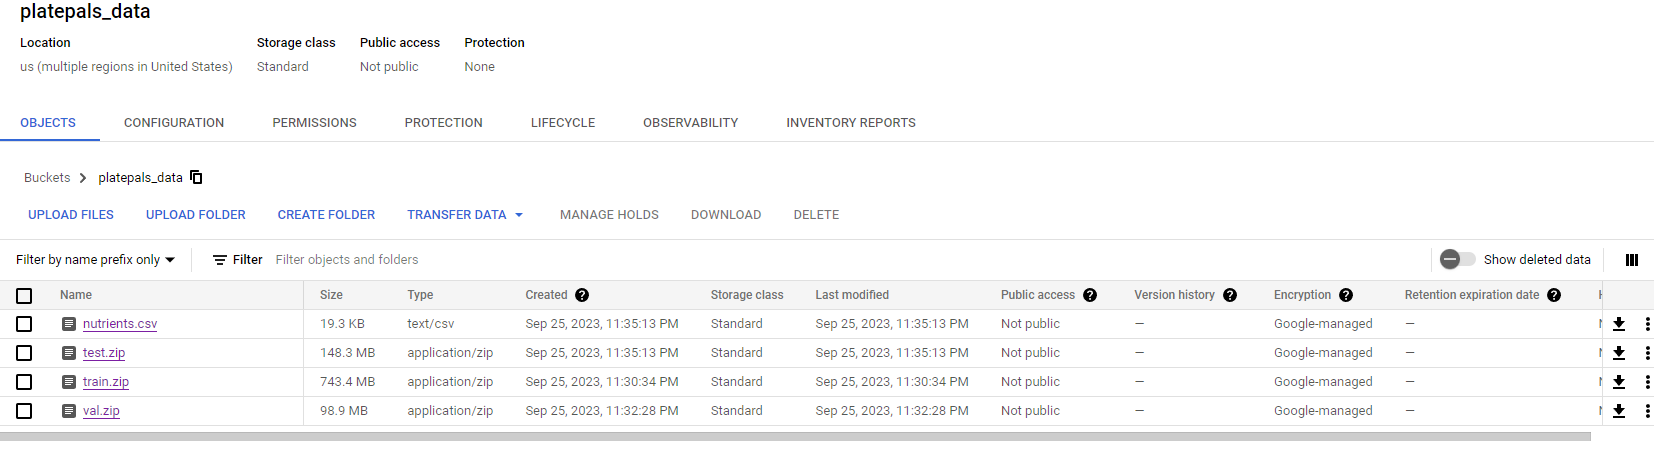
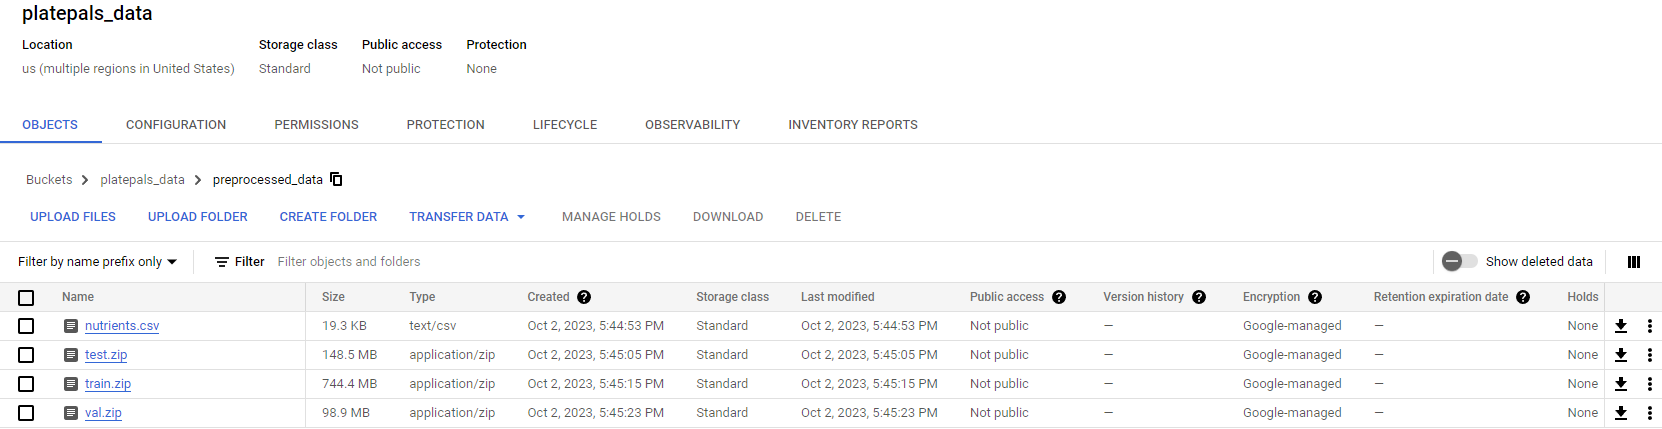
updated README

diff --git a/src/preprocessing/preprocess.py b/src/preprocessing/preprocess.py
@@ -16,7 +16,7 @@ GOOGLE_APPLICATION_CREDENTIALS = os.environ.get('GOOGLE_APPLICATION_CREDENTIALS'
 # Constants for nutrients dataset
 NUTRIENTS_URL = "https://raw.githubusercontent.com/prasertcbs/basic-dataset/master/nutrients.csv"
 LOCAL_PATH, GCS_OBJECT_NAME = "nutrients.csv", "nutrients.csv"
-DATA_VERSION = "version2" # UPDATE THIS IF NEEDED
+DATA_VERSION = "preprocessed_data" # CHANGE THIS
 
 
 def data_augmentation_layer():

diff --git a/README.md b/README.md
@@ -1,24 +1,28 @@
 AC215 - Milestone 3 (PlatePals)
 ==============================
-**Team Members**
+### Team Members ###
 
 - Amelia Li
 - Rebecca Qiu
 - Peter Wu
 
-**Group Name**
+### Group Name ###
 
 PlatePals
 
-**Project**
+### Project Description ###
 
 The goal of this project is to develop a machine learning application that accurately identifies the types of food present in a user-uploaded image. Based on the foods identified, the application will provide the user with relevant nutritional information and personalized dietary recommendations. This project will involve key phases of data preprocessing, model development, and application interface development, leveraging TensorFlow's Food-101 dataset.
 
 We'll predominantly employ TensorFlow's Food-101 dataset, featuring 101,000 annotated food images across 101 categories. Additionally, we will correlate the identified food items with nutritional metrics obtained from Kaggle's Nutrition datasets and a database called Nutritional Facts for Most Common Foods, which together offer around 9,000 nutritional records. Our dataset is securely hosted in a private Google Cloud Bucket.
 
-### Milestone 3 ###
+**Recap of Milestone 2**
 
-In Milestone 3, we provide a container to read our training, validation, and testing dataset of the Food-101 dataset, featuring 101,000 annotated food images across 101 categories, from GCS bucket, fit a CNN model to it called EfficientNet through a custom job sent to GCP Vertex AI and model dashboard set up through Weights and Biases.
+In milestone 2, we provide a container that pulls data from the TensorFlow [Food-101 dataset](https://www.tensorflow.org/datasets/catalog/food101), performs train-validation-test split of 75%, 10%, and 15% respsectively, and uploads the files onto our remote GCS bucket as zip files. 
+
+**Milestone 3**
+
+In this milestone, we provide a container to read our training, validation, and testing dataset from our remote GCS bucket, fit a CNN model to called EfficientNetV2B0 through a custom job sent to [GCP Vertex AI](https://console.cloud.google.com/vertex-ai/training/custom-jobs) and model dashboard set up through [Weights and Biases](https://wandb.ai/).
 
 Project Organization
 ------------
@@ -41,7 +45,6 @@ Project Organization
                 ├── package-trainer.sh
                 ├── Pipfile
                 ├── Pipfile.lock
-                ├── trainer.tar.gz
                 └── package
                     ├── PKG-INFO
                     ├── setup.cfg
@@ -74,17 +77,19 @@ Preprocess container (Milestone 2)
 Model Training a Multi-Class CNN Model (Milestone 3)
 ------------
 - This container reads 4.65GB of the [Food-101 dataset](https://www.tensorflow.org/datasets/catalog/food101) from a GCS Bucket that we populated in the `Preprocess container` section.
-- It fits and tests EfficientNet, a CNN model, using the train-val-test split we created in in the `Preprocess container` section to our problem of classifying food images into the 101 labels. 
+- It fits and tests EfficientNetV2B0, a CNN model, using the train-val-test split we created in in the `Preprocess container` section to our problem of classifying food images into the 101 labels. 
 - The code to perform the the tasks is written in `task.py`.
 - The code is sent to GCP Vertex AI to run.
 - Our model is connected to Weights and Biases, so we are able to view the model's performance and metrics at every epoch in its training and testing.
-- Required inputs: GCS Project Name and GCS Bucket Name.
+- Required inputs: GCS Project Name, GCS Bucket Name (data), GCS Bucket Name (model code), and WandB key.
 - Output: Model output in Weights and Biases and Vertex AI
 
 (1) `src/model-training/package/trainer/task.py`: This file reads our food data, a 4.65GB dataset, from the GCS bucket, fits a CNN model for multi-class classification, and then evaluates in on a test dataset. Image dimensions are resized to 128x128 pixels.
 
 Running our code
 ------------
+### Milestone 2 (preprocessing container) ###
+
 **Setup GCP Service Account**
 1. Create a secrets folder that is on the same level as the project folder.
 2. Head to [GCP Console](https://console.cloud.google.com/home/dashboard).
@@ -95,64 +100,140 @@ Running our code
 7. Click on "ADD KEY" > "Create new key" with "Key type" as JSON.
 8. Copy this JSON file into the secrets folder created in step 1 and rename it as "data-service-account.json".
 
-**Setup GCS Bucket**
+**Setup GCS Bucket (data bucket)**
 1. Head to [GCP Console](https://console.cloud.google.com/home/dashboard).
-2. Search for "Buckets" from the top search box OR go to: "Cloud Storage" > "Buckets" and create a new bucket with an appropriate bucket name e.g. "platepals-test".
-3. Click done. This will create a new GCS Bucket.
+2. Search for "Buckets" from the top search box OR go to: "Cloud Storage" > "Buckets" and create a new bucket with an appropriate bucket name e.g. "platepals-data".
+3. Click done. This will create a new GCS Bucket (GCS_BUCKET_NAME) for the container to upload your preprocessed data.
 
-**Set GCP Credentials (if running Milestone 2)**
-1. Head to src/preprocessing/docker-shell.sh.
+**Set GCP Credentials**
+1. Head to `src/preprocessing/docker-shell.sh`.
 2. Replace `GCS_BUCKET_NAME` and `GCP_PROJECT` with corresponding GCS Bucket Name that you have chosen above and GCP Project Name.
-3. Repeat step 2 for src/preprocessing/docker-shell.bat.
+3. (If you have a M1 Mac) Use the line that contains `--platform=linux/arm64/v8` to build your docker image.
 
-**Set GCP Credentials (if running Milestone 3)**
-1. Head to `src/model-training/docker-shell.sh`.
-2. Replace `GCS_BUCKET_NAME` and `GCP_PROJECT` with corresponding GCS Bucket Name that you have chosen above and GCP Project Name.
-
-**Execute Dockerfile (if running Milestone 2)**
-1. Make sure the Docker application is operational.
+**Execute Dockerfile**
+1. Make sure the Doker application is operational.
 2. **NOTE: EXECUTION MAY TAKE 2-3 HOURS DEPENDING ON NETWORK SPEED.** Navigate to src/preprocessing and execute `sh docker-shell.sh`.
-3. Upon completion, your GCS Bucket should display the processed data as shown under the default folder name "version1".
+3. Upon completion, your GCS Bucket should display the processed data as shown under the default folder name "preprocessed_data" (you can change this in preprocess.py).
 ![bucket-data](assets/bucket-data.png)
 
-**Execute Dockerfile (if running Milestone 3)**
+### Milestone 3 (model-training container) ###
+
+This milestone assumes that you have done the steps mentioned for milestone 2 (preprocessing container).
+
+**Setup GCS Bucket (trainer bucket)**
+1. Head to [GCP Console](https://console.cloud.google.com/home/dashboard).
+2. Search for "Buckets" from the top search box OR go to: "Cloud Storage" > "Buckets" and create a new bucket with an appropriate bucket name e.g. "platepals-trainer".
+3. Click done. This will create a new GCS Bucket (GCS_BUCKET_URI) for the container to uplaod the code used to train the model.
+
+**Set GCP Credentials**
+1. Head to `src/model-training/docker-shell.sh`.
+2. Replace `GCS_BUCKET_URI` and `GCP_PROJECT` with corresponding GCS Bucket Name that you have chosen above and GCP Project Name.
+3. (If you have a M1 Mac) Use the line that contains `--platform=linux/arm64/v8` to build your docker image.
+3. (If you modified your default folder name for your data) Head to `src/model-training/package/trainer/task.py`.
+4. Change the string assigned to `data_version`.
+
+**Set Environment Variables**
+1. Login to [Weights and Biases](https://wandb.ai/).
+2. Go to [user settings](https://wandb.ai/settings).
+3. Scroll down to the `API Keys` section.
+![wandb-api-key](assets/wandb-api-key.png)
+4. Copy the key and set an environment variable using your terminal: `export WANDB_KEY=...`
+5. Set another environment variable for your GCS data bucket (that contains your data): `export GCS_BUCKET_NAME=...`
+
+**If you have access to Vertex AI GPU**
+1. Head to `src/model-training/cli.sh`.
+2. Uncomment the code under "Run training with GPU" and comment out the code under "Run training with no GPU".
+
+**Execute Dockerfile**
 1. Make sure the Docker application is operational.
-2. Navigate to `src/model-training/package/trainer` and execute `sh docker-shell.sh`.
-3. Inside Docker, run `sh package-trainer.sh`.
-4. Still inside Docker, run `sh cli.sh`.
+2. Navigate to `src/model-training` and execute `sh docker-shell.sh`.
+3. Once you are in the docker container, run `sh package-trainer.sh`.
+4. You should be able to see that a `tar.gz` file has been uploaded to your GCS trainer bucket.
+![bucket-trainer](assets/bucket-trainer.png)
+4. **NOTE: EXECUTION MAY TAKE 15 MINUTES TO 1 AN HOUR DEPENDING ON GPU/CPU.** Still inside the docker container, run `sh cli.sh`.
 3. Upon completion, your custom job should populate in GCP Vertex AI and model dashboard should show up in Weights and Biases.
+![vertex-ai-finished-jobs](assets/vertex-ai-finished-jobs.png)
 
 Results
 ------------
 **Experiment Tracking**
 
-Below you can see the output from our Weights & Biases page. We used this tool to track several iterations of our model training when it trained our EfficientNet. It was tracked using the `wandb` library we included inside of our `task.py` script.
+Below you can see the output from our Weights & Biases page. We used this tool to track several iterations of our model training when it trained our EfficientNet. It was tracked using the `wandb` library we included inside of our `task.py` script. Below is a screenshot of one iteration that we performed with EfficientNetV2B0 for 3 epochs.
 
 ![wnb](assets/wnb.jpg)
 
 **Serverless Training**
 
 Inside our training container, we sent our training job to GCP Vertex AI so it is trained on instances in the cloud, which was how we connected to the Weights & Biases in the previous image above. In the image below, you can see several runs of our model. We had a successful completion of the custom job.
-
-![vertex-ai-complete](assets/vertex-ai-complete.jpg)
+![vertex-ai-finished-jobs](assets/vertex-ai-finished-jobs.png)
 
 DVC Setup
 ------------
 This step is entirely optional.
-1. Make sure dvc[gs] is installed by running `pip install dvc[gs]`.
-2. Initialize git at the root of the file by running `git init`.
-3. Initialize dvc at the root of the file by running `dvc init`.
-2. Ensure that the gcloud CLI is installed by running a gcloud command e.g. `gcloud projects list`. [Instructions](https://cloud.google.com/sdk/docs/install) for installation can be found here.
-3. Run the command `gcloud auth application-default login` to be authenticated with the gcloud CLI.
-4. Run the command `dvc import-url gs://{GCS_BUCKET_NAME}/version1`.
-5. Run the command `git add .gitignore version1.dvc`
-6. Run `git commit -m "added raw data"`.
-9. You have now committed the latest version of the data using dvc.
+1. Create a VM on Google Cloud Platform
+2. Install Docker on the VM
+```
+# Add Docker's official GPG key:
+sudo apt-get update
+sudo apt-get install ca-certificates curl gnupg
+sudo install -m 0755 -d /etc/apt/keyrings
+curl -fsSL https://download.docker.com/linux/debian/gpg | sudo gpg --dearmor -o /etc/apt/keyrings/docker.gpg
+sudo chmod a+r /etc/apt/keyrings/docker.gpg
+
+# Add the repository to Apt sources:
+echo \
+  "deb [arch="$(dpkg --print-architecture)" signed-by=/etc/apt/keyrings/docker.gpg] https://download.docker.com/linux/debian \
+  "$(. /etc/os-release && echo "$VERSION_CODENAME")" stable" | \
+  sudo tee /etc/apt/sources.list.d/docker.list > /dev/null
+sudo apt-get update
+
+sudo apt-get install docker-ce docker-ce-cli containerd.io docker-buildx-plugin docker-compose-plugin -y
+
+sudo docker run hello-world
+```
+3. Install git: `sudo apt-get install git`
+4. Set up git SSH on the VM `ssh-keygen -t ed25519 -C "youremail@gmail.com"` (Press enter for all 3 questions)
+5. Your public key is located in `cat /home/<name>/.ssh/id_ed25519.pub` (Copy contents of this file on to clipboard) 
+5. Go to -> GitHub.com -> Settings (top right under your pfp) -> SSH and GPG keys (left) -> New SSH key -> give any title -> copy contents in key -> Add SSH Key (please login again when asked)
+6. Copy following files from [https://github.com/ac2152023/dvcrepo](https://github.com/ac2152023/dvcrepo) to your private repo
+```
+Dockerfile
+Pipfile
+Pipfile.lock
+docker-entrypoint.sh
+docker-shell.sh
+.gitignore
+```
+7. `git clone git@github.com:{USERNAME}/<privaterepo>.git`
+8. Upload your secrets to secrets folder , check entries in docker-entrypoint.sh, docker-shell.sh
+9. Run `sudo sh docker-shell.sh`
+10. Run these commands in the docker container for DVC
+```   
+mkdir mushdvc
+gcsfuse mushdvc mushdvc/
+dvc init
+dvc remote add -d mushdvc gs://mushdvc/dvc_store
+dvc add mushdvc  
+dvc push
+
+git status
+git add .
+git commit -m 'dataset update 1'
+git tag -a 'dataset_v1' -m 'tag dataset'
+git push --atomic origin main dataset_v1
+```
+11. You should see the tagged dataset on your private repo.
+![dvc-tag](assets/dvc-tag.png)
 
 
-Challenges and Future Directions
+Discussion Regarding Tools Used
 ------------
+1. **Label Studio**: In our project, the image data is already pre-organized and labeled through a folder-based hierarchy, where each folder name serves as the label for the images contained within it. This structure effectively eliminates the need for a separate labeling tool like Label Studio. Therefore, we have opted not to incorporate Label Studio into our existing data pipeline.
 
-1. **Data Transfer Time**: We've observed that the data download and upload process currently takes between 2-3 hours. Although we've optimized the process to some extent, we aim to investigate further to determine whether these durations can be shortened. This is on our agenda for the next milestone.
+2. **Dask**: In our project, the dataset size is well below the 5GB threshold where distributed computing frameworks like Dask would typically be beneficial.  In this context, the overhead of utilizing Dask outweighs the benefits, making it an overkill solution for our particular use case. Therefore, we have chosen not to integrate Dask into our project's data processing workflow
 
-2. **Remote Data and DVC Integration**: Our attempts to integrate DVC have been unsuccessful due to the remote storage of our dataset in a GCS Bucket. The in-class examples primarily utilize locally-stored data, making our remote setup a complicating factor. We're exploring alternative solutions, such as employing `gcsfuse` to potentially mount our GCS Bucket, to address this challenge.
+3. **Remote Data and DVC Integration**: In a previous milestone, we encountered difficulties in integrating DVC into our project due to our dataset being stored remotely in a GCS Bucket. Our initial challenges stemmed from the fact that the in-class examples were tailored for locally-stored data, making our remote setup a complicating factor. However, with the guidance and code provided by the course staff, we were able to successfully adapt the DVC workflow to accommodate our remote storage setup. 
+
+4. **TF Data and TF Records**: Our project employs TensorFlow's tf.data and TFRecords as part of our data pipeline, specifically to facilitate efficient and scalable training of our image classification model based on EfficientNetV2B0. TFRecords offer a compact binary storage format, which is optimized for TensorFlow, allowing for rapid data loading. Coupled with the tf.data, it enables us to create highly performant input pipelines, thereby reducing I/O bottlenecks. By leveraging tf.data and TFRecords, we are able to ensure that the data feeding process doesn't become a bottleneck.
+
+5. **EfficientNetV2B0**: EfficientNetV2B0 is an evolution of the original EfficientNet architecture, designed for both improved accuracy and computational efficiency in the context of image classification tasks. According to [this study](https://arxiv.org/abs/2104.00298), the EfficientNetV2 models train faster while being up to 6.8x smaller. These enhancements make EfficientNetV2B0 an attractive choice for our project, as it allows us to achieve state-of-the-art accuracy while also maintaining computational efficiency, a key factor given the resource constraints that are often present in real-world machine learning projects.
